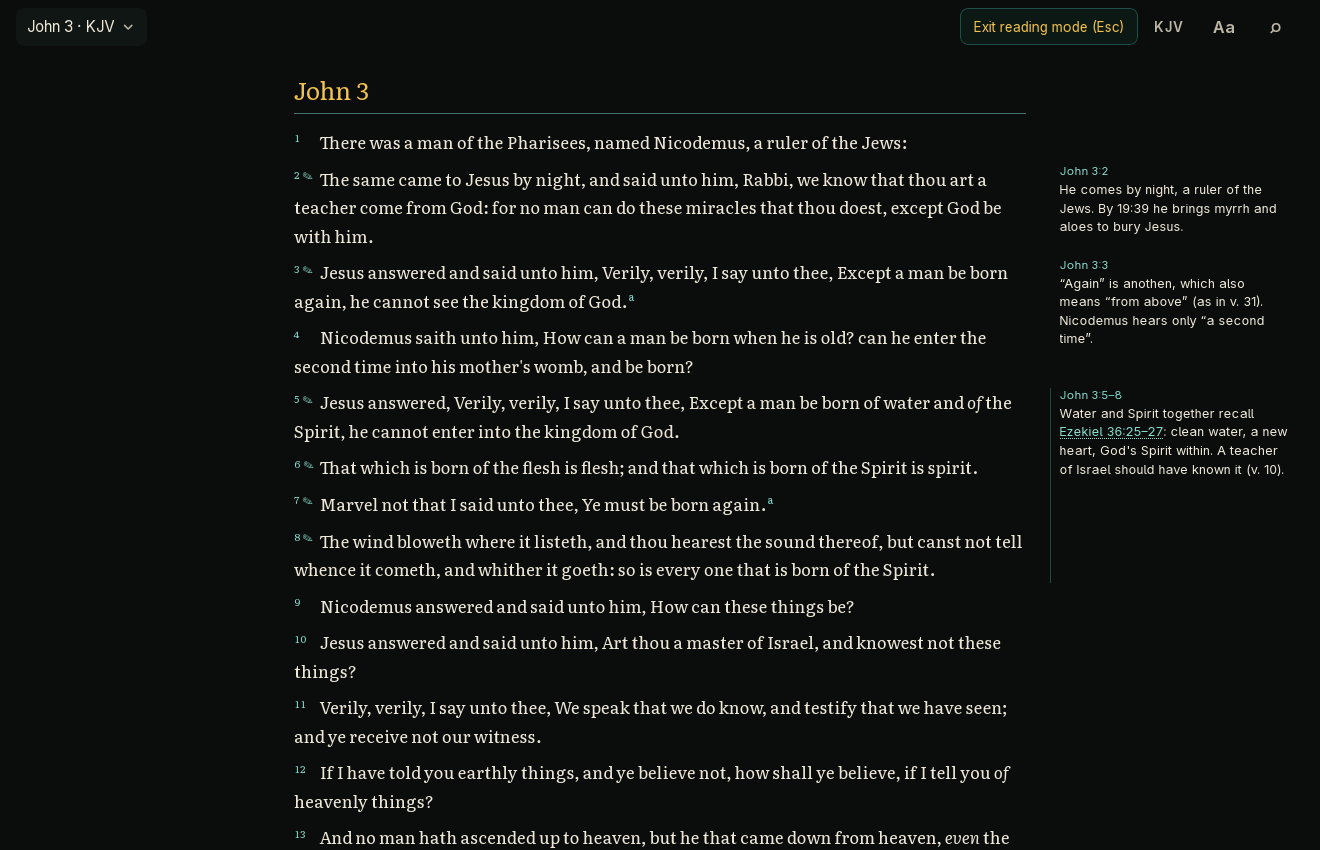
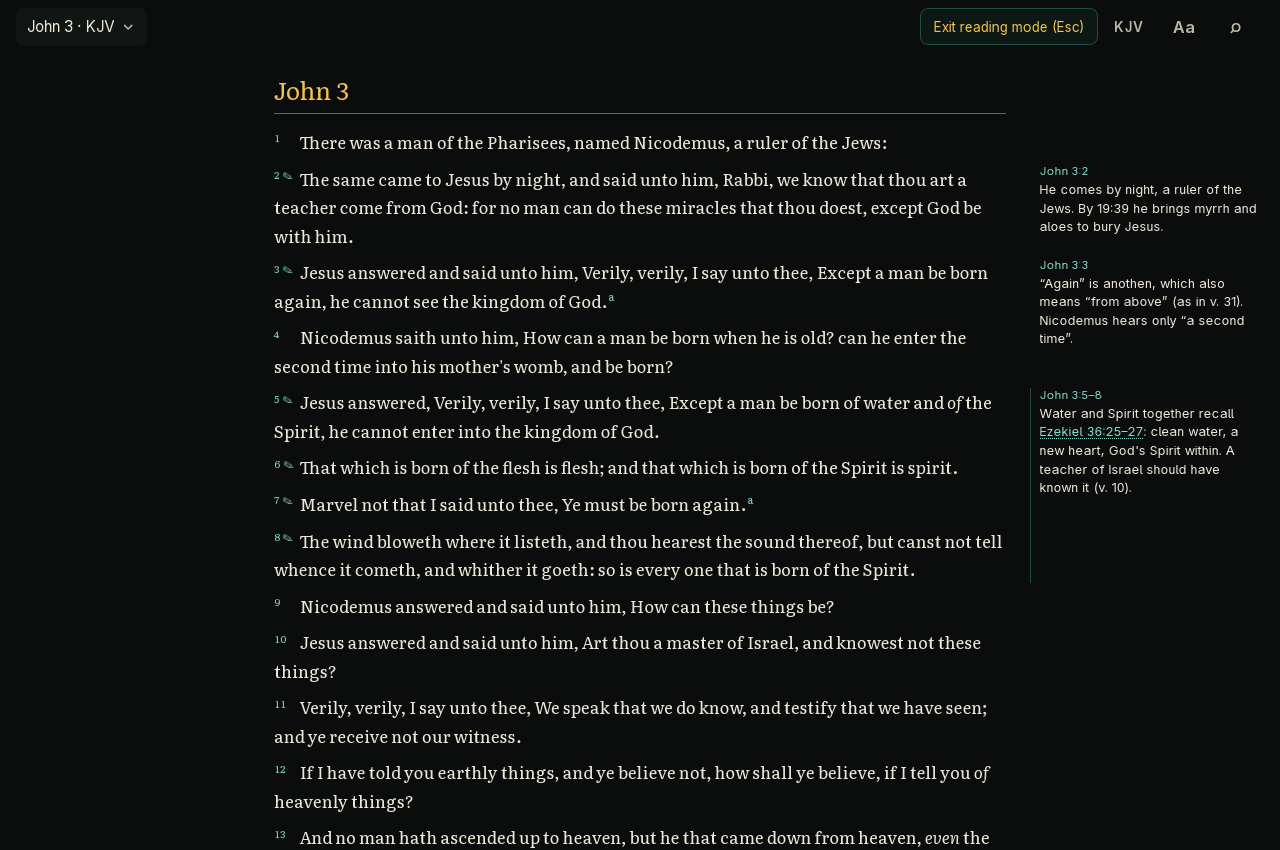
docs: margin-notes back at 1280 px; README's Links says what opens
After #160 (EDGE_REM 1.125rem), a 1280 px window shows the margin again,
so the README's margin-notes scene is back at 1280x850, as in 2.20.0;
recaptured, it shows the margin. Every other image was byte-identical.

README, How it works, Links: the page never opens a web page itself.
Release notes, the cross-references' credits and the Support link open
through the backend, which opens only addresses on its own fixed list;
a link in one of your own notes opens in your browser only when you
click it, and only if it's a web address (http or https). The site makes
no such claim, so it's unchanged.

diff --git a/tools/site/capture_screenshots.py b/tools/site/capture_screenshots.py
@@ -353,10 +353,8 @@ def readme_scenes(theme):
              position=("John", 3, "kjv"), steps="window.scrollTo(0, 0);"),
         # The same in reading mode, with three notes in the margin beside
         # their verses (Aa's "Notes in the margin" is on by default): two
-        # on single verses, stacked, and one on 5-8 with its rule. 1320
-        # wide, not 1280: the margin needs 17.5rem beside the text (14rem,
-        # its gap and 2rem to the edge), and at 1280 there's 274px.
-        dict(name="margin-notes", size=(1320, 850), prefs={**look, "gospel-getter-reader-mode": "on"},
+        # on single verses, stacked, and one on 5-8 with its rule.
+        dict(name="margin-notes", size=(1280, 850), prefs={**look, "gospel-getter-reader-mode": "on"},
              position=("John", 3, "kjv"),
              notes=[
                  ("John", 3, 2, 2,

diff --git a/README.md b/README.md
@@ -433,9 +433,11 @@ so it seeds again.
   as…, Copy chapter and the notes export's quotes. The page fetches it
   ahead and writes it with the webview's own clipboard API, with no plugin
   or extra permission.
-- **Links:** the page never opens a web page itself. Release notes and the
-  cross-references' credits open in your browser through the backend,
-  which opens only addresses on its own fixed list.
+- **Links:** the page never opens a web page itself. Release notes, the
+  cross-references' credits and the Support link open in your browser
+  through the backend, which opens only addresses on its own fixed list.
+  A link you put in one of your own notes opens in your browser only when
+  you click it, and only if it's a web address (http or https).
 - **Content Security Policy:** the webview loads only the app's own
   scripts, styles, fonts and images, and nothing in the page can reach
   the network; only the app's backend can.
